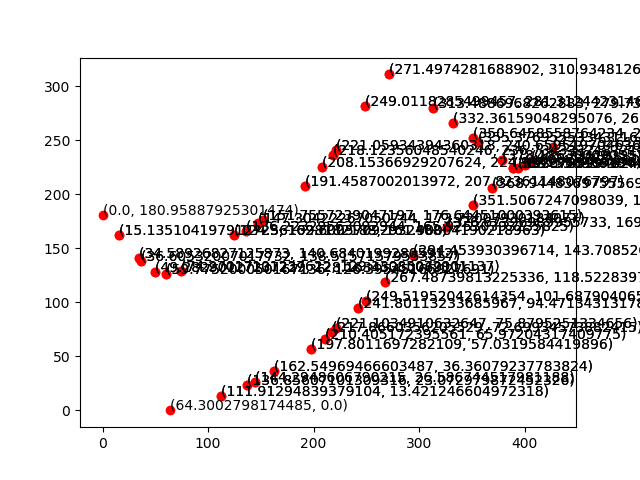
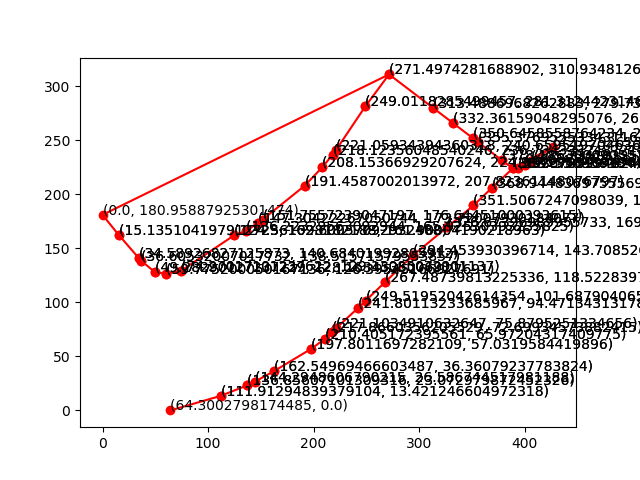
1. Road creation accomplished in beamng

diff --git a/osm_beamng_scenario/osm_beamng_coordinates_normalization.py b/osm_beamng_scenario/osm_beamng_coordinates_normalization.py
@@ -96,19 +96,16 @@ def startRoadCreation():
                 element = node_dict[coordinate]
                 #gridOSMx, gridOSMy = getNormalizedOSMCoordinates(minMaxLonLat[0],minMaxLonLat[1], element[0], element[1])
                 gridBeamNGy,gridBeamNGx = getNormalizedBeamNGCoordinates(minMaxLonLat[0], minMaxLonLat[1], element[0], element[1])
-                beamNG_lat_lon[coordinate] = {gridBeamNGx,gridBeamNGy}
+                beamNG_lat_lon[coordinate] = (gridBeamNGx,gridBeamNGy)
                 beamNG_coordintes.append((gridBeamNGx,gridBeamNGy))
 
-
-
-        print(beamNG_coordintes)
 
         x_val = [x[0] for x in beamNG_coordintes]
         y_val = [x[1] for x in beamNG_coordintes]
 
         plt.figure()
         #plt.plot(x_val, y_val)
-        plt.plot(x_val, y_val, 'or')
+        plt.plot(x_val, y_val, '-or')
 
         for xy in zip(x_val,y_val):  # <--
             plt.annotate('(%s, %s)' % xy, xy=xy, textcoords='data')  # <--

diff --git a/osm_beamng_scenario/osm_beamng_road_creation.py b/osm_beamng_scenario/osm_beamng_road_creation.py
@@ -30,8 +30,9 @@ def createBeamNGRoads():
     print(graph.edges)
 
     graph_edges = graph.edges
-
     print(len(graph_edges))
+
+    sample_list = []
     for sample in graph_edges:
         road_a = Road('custom_track_center', looped=False)
         point1 = list(beamng_dict[sample[0]])
@@ -44,6 +45,9 @@ def createBeamNGRoads():
 
         road_a.nodes.extend(nodes0)
         scenario.add_road(road_a)
+
+        sample_list.append(point1)
+        sample_list.append(point2)
 
 
     scenario.make(beamng)
